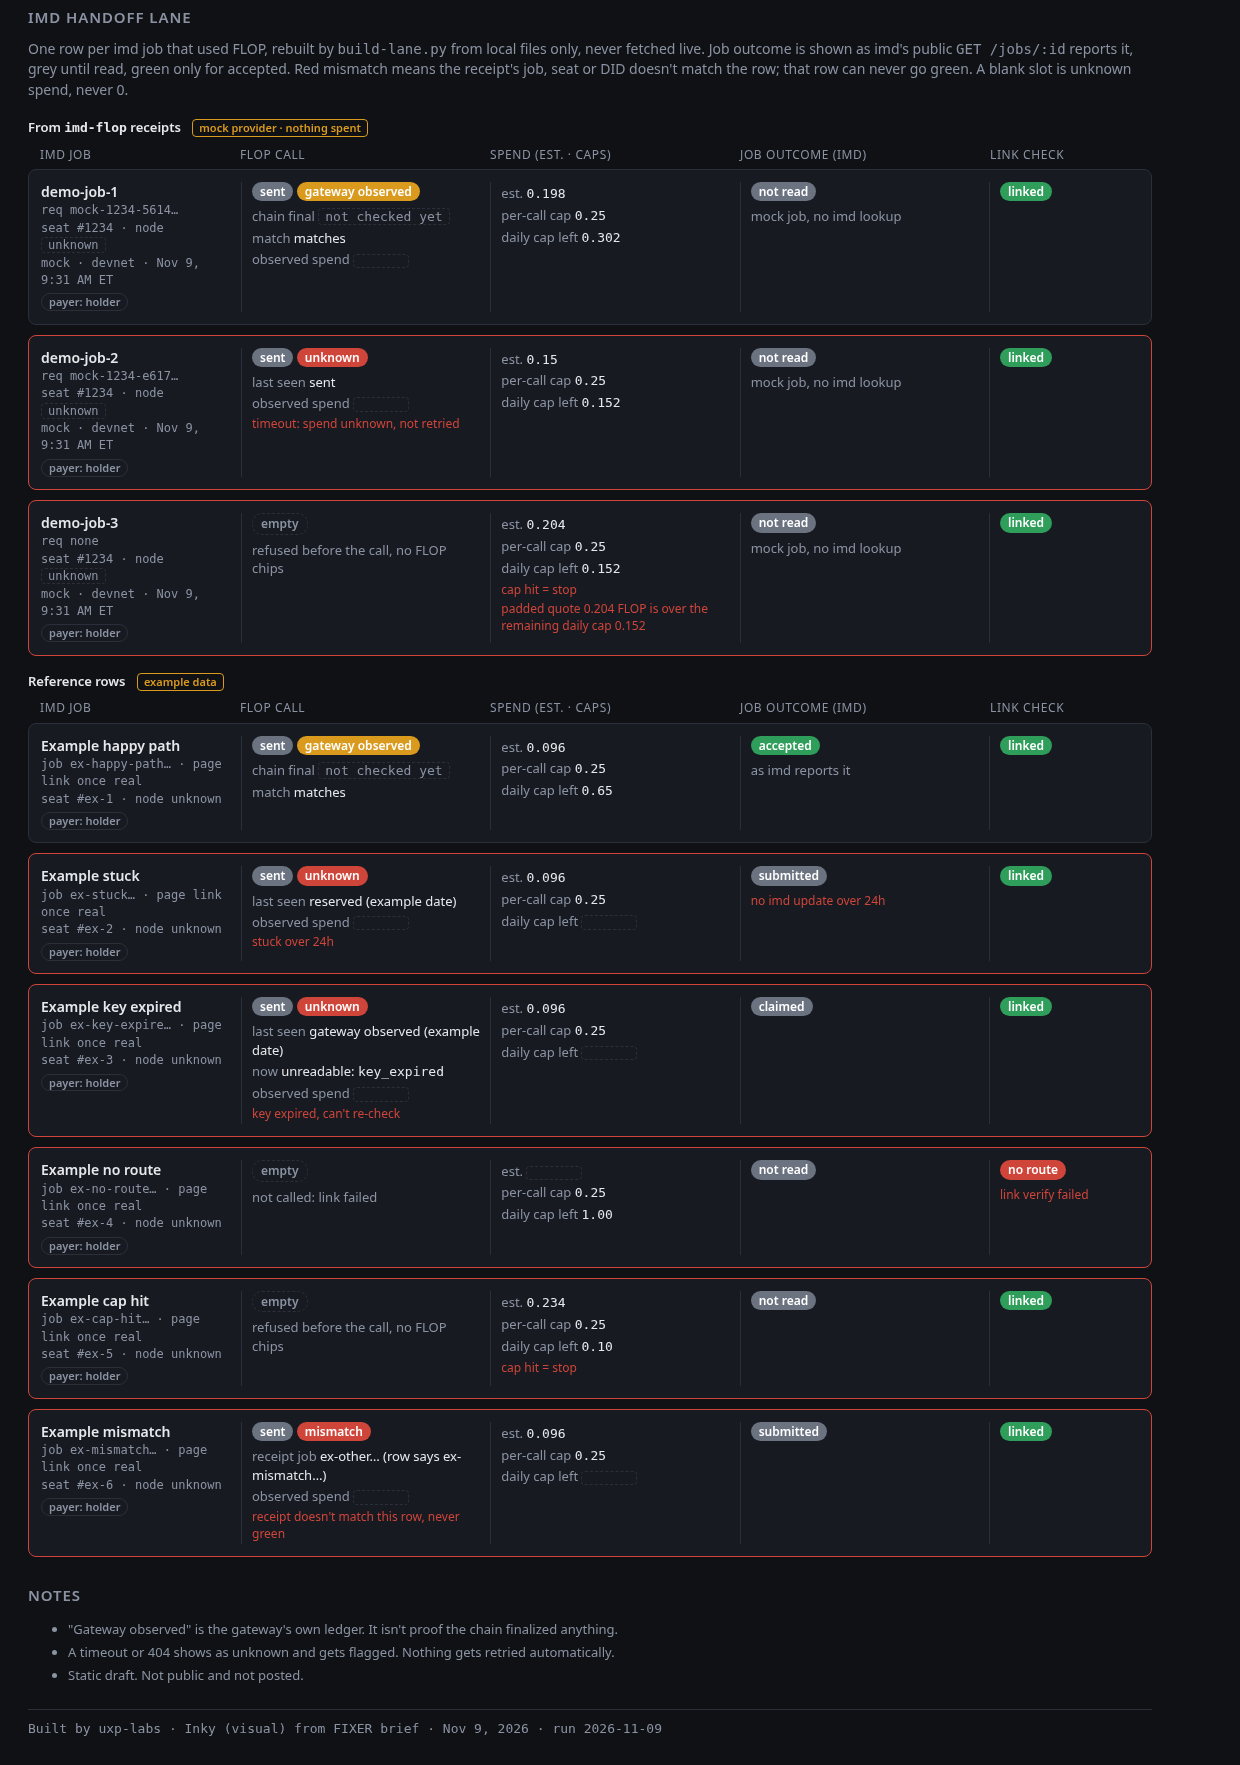
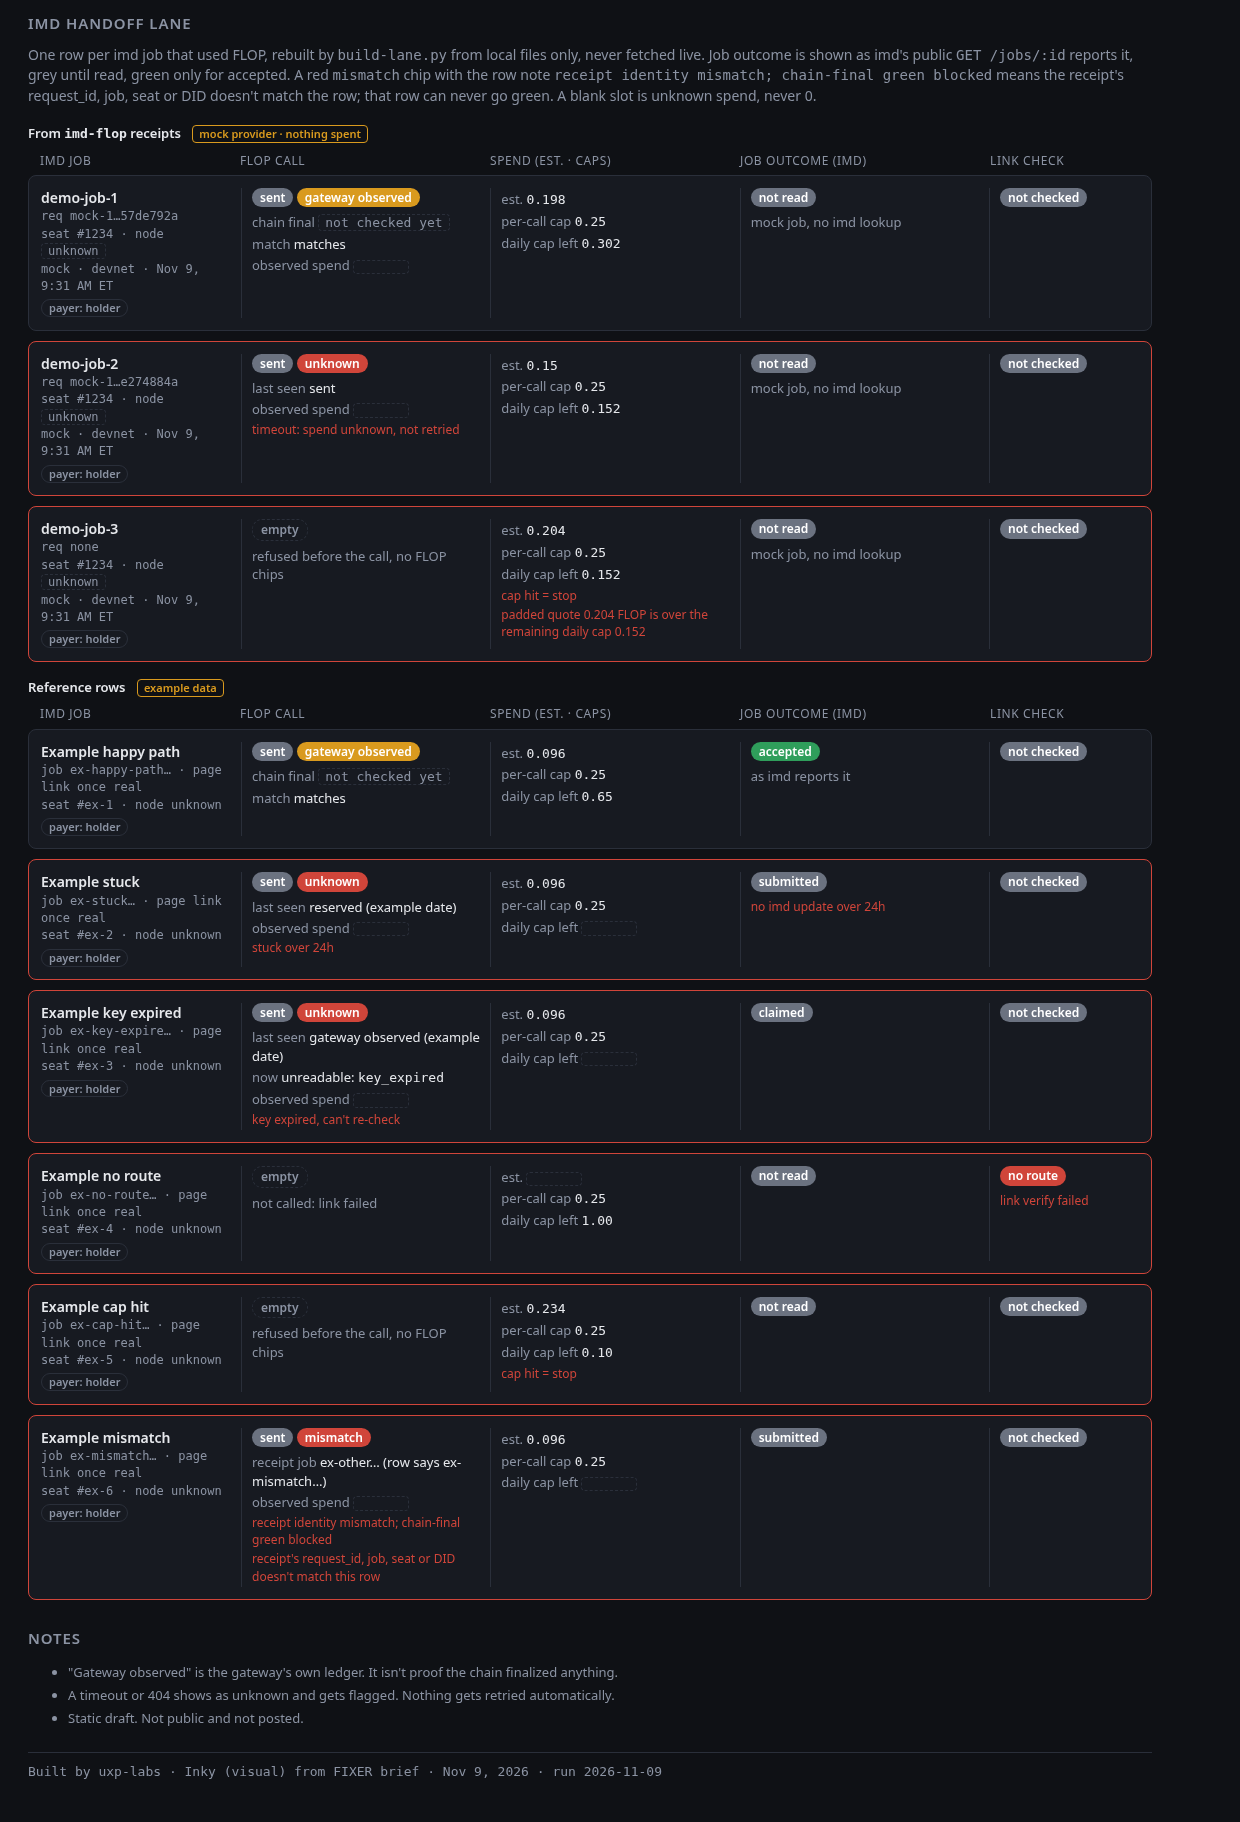
fix(v7b): pre-call lock exit 10, grey example link chips, exit-code docs
Exit 4 is already REFUSED_LINK and 0-9 are taken, so a ledger lock
timeout or contest before the paid call now exits 10 (REFUSED_LOCK)
instead of sharing 3 with cap refusals. After the paid call, a lock
failure still exits 1. The README lists every CLI exit code.

The four example rows that still showed a green "linked" chip (happy
path, stuck, key expired, cap hit) are now grey "not checked". The
PNGs are rebuilt from the committed HTML.

Fail-first tests: TS-I14 expects 10; V_I13b covers the four example rows.

diff --git a/viewer/settlement-viewer-2026-11-09.html b/viewer/settlement-viewer-2026-11-09.html
@@ -117,21 +117,21 @@ h1{font-size:20px;margin:0 0 4px}h2{font-size:15px;margin:28px 0 10px;color:var(
  <div class="col"><span class="chip c-grey">sent</span> <span class="chip c-amber">gateway observed</span><div><span class="k">chain final</span> <span class="unk">not checked yet</span></div><div><span class="k">match</span> matches</div></div>
  <div class="col"><div><span class="k">est.</span> <span class="mono">0.096</span></div><div><span class="k">per-call cap</span> <span class="mono">0.25</span></div><div><span class="k">daily cap left</span> <span class="mono">0.65</span></div></div>
  <div class="col"><span class="chip c-green">accepted</span><div class="k">as imd reports it</div></div>
- <div class="col"><span class="chip c-green">linked</span></div>
+ <div class="col"><span class="chip c-grey">not checked</span></div>
 </div>
 <div class="row bad">
  <div class="lbl">Example stuck<small>job ex-stuck… · page link once real</small><small>seat #ex-2 · node unknown</small><span class="tag">payer: holder</span></div>
  <div class="col"><span class="chip c-grey">sent</span> <span class="chip c-red">unknown</span><div><span class="k">last seen</span> reserved (example date)</div><div><span class="k">observed spend</span> <span class="unk blank" title="unknown spend">&nbsp;</span></div><div class="flag">stuck over 24h</div></div>
  <div class="col"><div><span class="k">est.</span> <span class="mono">0.096</span></div><div><span class="k">per-call cap</span> <span class="mono">0.25</span></div><div><span class="k">daily cap left</span> <span class="unk blank" title="unknown spend">&nbsp;</span></div></div>
  <div class="col"><span class="chip c-grey">submitted</span><div class="flag">no imd update over 24h</div></div>
- <div class="col"><span class="chip c-green">linked</span></div>
+ <div class="col"><span class="chip c-grey">not checked</span></div>
 </div>
 <div class="row bad">
  <div class="lbl">Example key expired<small>job ex-key-expire… · page link once real</small><small>seat #ex-3 · node unknown</small><span class="tag">payer: holder</span></div>
  <div class="col"><span class="chip c-grey">sent</span> <span class="chip c-red">unknown</span><div><span class="k">last seen</span> gateway observed (example date)</div><div><span class="k">now</span> unreadable: <span class="mono">key_expired</span></div><div><span class="k">observed spend</span> <span class="unk blank" title="unknown spend">&nbsp;</span></div><div class="flag">key expired, can't re-check</div></div>
  <div class="col"><div><span class="k">est.</span> <span class="mono">0.096</span></div><div><span class="k">per-call cap</span> <span class="mono">0.25</span></div><div><span class="k">daily cap left</span> <span class="unk blank" title="unknown spend">&nbsp;</span></div></div>
  <div class="col"><span class="chip c-grey">claimed</span></div>
- <div class="col"><span class="chip c-green">linked</span></div>
+ <div class="col"><span class="chip c-grey">not checked</span></div>
 </div>
 <div class="row bad">
  <div class="lbl">Example no route<small>job ex-no-route… · page link once real</small><small>seat #ex-4 · node unknown</small><span class="tag">payer: holder</span></div>
@@ -145,7 +145,7 @@ h1{font-size:20px;margin:0 0 4px}h2{font-size:15px;margin:28px 0 10px;color:var(
  <div class="col"><span class="chip c-empty">empty</span><div class="k">refused before the call, no FLOP chips</div></div>
  <div class="col"><div><span class="k">est.</span> <span class="mono">0.234</span></div><div><span class="k">per-call cap</span> <span class="mono">0.25</span></div><div><span class="k">daily cap left</span> <span class="mono">0.10</span></div><div class="flag">cap hit = stop</div></div>
  <div class="col"><span class="chip c-grey">not read</span></div>
- <div class="col"><span class="chip c-green">linked</span></div>
+ <div class="col"><span class="chip c-grey">not checked</span></div>
 </div>
 <div class="row bad">
  <div class="lbl">Example mismatch<small>job ex-mismatch… · page link once real</small><small>seat #ex-6 · node unknown</small><span class="tag">payer: holder</span></div>

diff --git a/imd-flop/test/audit-v7.test.ts b/imd-flop/test/audit-v7.test.ts
@@ -280,12 +280,19 @@ describe("TS-I13 a 64-hex job id is a usage error, not a secret-scan exit", () =
 });
 
 describe("TS-I14 a ledger lock timeout before the call is a local refusal", () => {
-  it("TS-I14 lock held by a live owner: exit 3 'refused locally, nothing sent', nothing sent", async () => {
+  it("TS-I14 lock held by a live owner: exit 10 'refused locally, nothing sent', nothing sent", async () => {
     const home = tmpHome();
     await readySeat(home, SEAT, "5");
     writeFileSync(join(home, "ledger.jsonl.lock"), JSON.stringify({ pid: process.pid, host: hostname(), token: "other" }));
     const p = new P();
     const r = await cliP(home, runArgs("o1", false), p);
-    expect({ code: r.code, calls: p.calls, refused: r.err.includes("refused locally, nothing sent") }).toEqual({ code: 3, calls: 0, refused: true });
+    expect({ code: r.code, calls: p.calls, refused: r.err.includes("refused locally, nothing sent") }).toEqual({ code: 10, calls: 0, refused: true });
+  });
+
+  it("TS-I14 the pre-call lock refusal has its own exit code, shared with no other EXIT value", async () => {
+    const { EXIT } = await import("../src/errors.js");
+    const values = Object.values(EXIT) as number[];
+    expect((EXIT as Record<string, number>).REFUSED_LOCK).toBe(10);
+    expect(new Set(values).size).toBe(values.length);
   });
 });

diff --git a/imd-flop/src/run.ts b/imd-flop/src/run.ts
@@ -228,7 +228,7 @@ export async function runJob(h: string, provider: Provider, o: RunOpts, deps: { 
     sent = withLedgerLock(h, lockedCheck);
   } catch (e) {
     // The lock was never taken, so no cap check ran and nothing was sent.
-    if (e instanceof LedgerLockError) throw new CliError(`refused locally, nothing sent: ${e.message}`, EXIT.REFUSED_CAP);
+    if (e instanceof LedgerLockError) throw new CliError(`refused locally, nothing sent: ${e.message}`, EXIT.REFUSED_LOCK);
     throw e;
   }
 

diff --git a/imd-flop/src/errors.ts b/imd-flop/src/errors.ts
@@ -10,6 +10,7 @@ export const EXIT = {
   ESTIMATE_FAILED: 7, // fail closed: no quote, no send
   VERIFY_FAILED: 8, // link verify found a bad signature or mismatch
   FAUCET_REFUSED: 9, // team rule: no faucets
+  REFUSED_LOCK: 10, // ledger lock timeout or contested before the paid call; nothing sent
 } as const;
 
 export class CliError extends Error {

diff --git a/viewer/test_audit_v7.py b/viewer/test_audit_v7.py
@@ -185,5 +185,15 @@ class ViewerAuditV7(unittest.TestCase):
             self.assertIn(IDENTITY, r["flags"])
 
 
+    def test_V_I13b_example_rows_never_show_a_green_linked_chip(self):
+        ex = {r["label"]: r for r in json.loads((ROOT / "lane-examples.json").read_text())["rows"]}
+        for label in ("Example happy path", "Example stuck", "Example key expired", "Example cap hit"):
+            with self.subTest(label=label):
+                self.assertEqual(ex[label]["link"], ["grey", "not checked", None])
+        self.assertFalse([l for l, r in ex.items() if r["link"][:2] == ["green", "linked"]])
+        committed = (ROOT / "settlement-viewer-2026-11-09.html").read_text()
+        self.assertNotIn('c-green">linked', committed)
+
+
 if __name__ == "__main__":
     unittest.main(verbosity=2)

diff --git a/imd-flop/README.md b/imd-flop/README.md
@@ -23,9 +23,27 @@ no network and no spend.
 | `faucet [--dry-run]` | Refuses with exit code 9, because our team doesn't use faucets. `--dry-run` prints the request it would have made. |
 | `enroll [--dry-run \| --live]` | Dry run by default: prints the challenge and enroll calls it would make. `--live` does real devnet enrollment and is meant for a human on the holder's machine. |
 
-Data lives in `~/.imd-flop/`, or in `$IMD_FLOP_HOME` if that's set. Exit codes: 0 ok, 2 usage,
-3 refused by a cap, 4 link broken, 5 rule, 6 timeout (spend unknown), 7 estimate failed, 8 verify failed,
-9 faucet refused.
+Data lives in `~/.imd-flop/`, or in `$IMD_FLOP_HOME` if that's set. Exit codes are listed below.
+
+## Exit codes
+
+The process exit code is the `EXIT` value in `src/errors.ts`. `src/bin.ts` assigns it to `process.exitCode`. These numbers are stable so a script can branch on them.
+
+| Code | Name | Meaning |
+|---|---|---|
+| 0 | `OK` | The command finished successfully. |
+| 1 | `ERROR` | A general failure. Used for a failed `init --check-genesis`, a failed `enroll --live`, a pre-mint provider refusal (`nothing sent`), a gateway HTTP error after the call was sent, and any unexpected error that is not a `CliError`. A ledger lock timeout *after* the paid call also exits 1: `appendLedger` takes the lock itself, and a `LedgerLockError` is not a `CliError`. |
+| 2 | `USAGE` | Bad arguments, a missing seat or key, or a value the command will not accept. |
+| 3 | `REFUSED_CAP` | Refused locally, nothing sent. Used when there is no usable cap, the padded quote is over the per-call, daily, or job budget, or a ledger `cap_charge` is unusable. |
+| 4 | `REFUSED_LINK` | The seat-to-DID link is missing or does not verify, or `--no-link` was used with a non-mock provider. |
+| 5 | `REFUSED_RULE` | A section E rule (including a second key for a seat, a secret scan hit, a missing job id, or a live-run gate) or a paid-run chain/genesis refusal. |
+| 6 | `TIMEOUT_UNKNOWN` | The paid call timed out. Spend is recorded as unknown and is not retried. |
+| 7 | `ESTIMATE_FAILED` | The cost estimate failed or returned no usable cost. Nothing was sent. |
+| 8 | `VERIFY_FAILED` | `link verify` found a bad signature, a mismatch, or a failed owner check. |
+| 9 | `FAUCET_REFUSED` | `faucet` without `--dry-run` always refuses (team rule). `--dry-run` exits 0 and does not send. |
+| 10 | `REFUSED_LOCK` | The ledger lock could not be taken *before* the paid call (`LedgerLockError`: timeout or contested). Nothing was sent. This code is not shared with cap refusals (3) or a broken link (4). |
+
+Lock-timeout rule: if the ledger lock cannot be taken before the paid call, the CLI exits 10 and nothing is sent. If the lock cannot be taken after the paid call, while writing the result row, the CLI exits 1. Exit 3 stays cap refusals only. Exit 4 stays a broken link. Codes 0–10 are the only values the CLI returns.
 
 ## Mocked vs live
 
